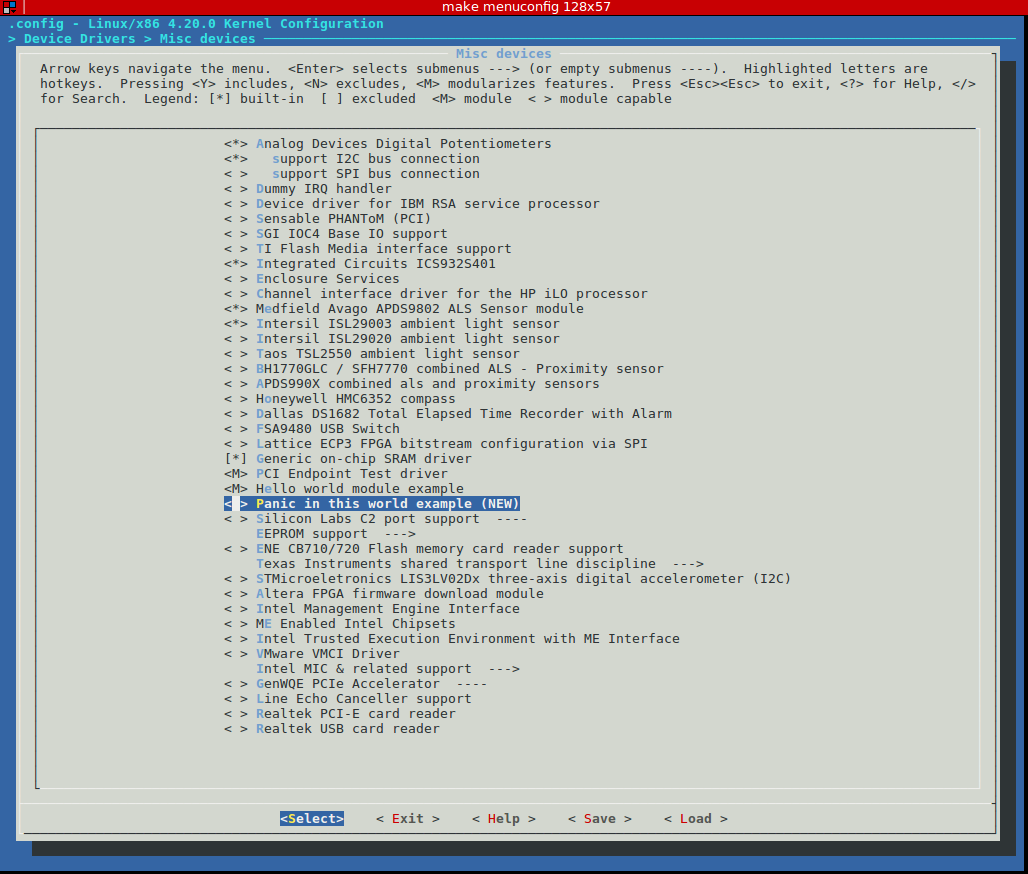
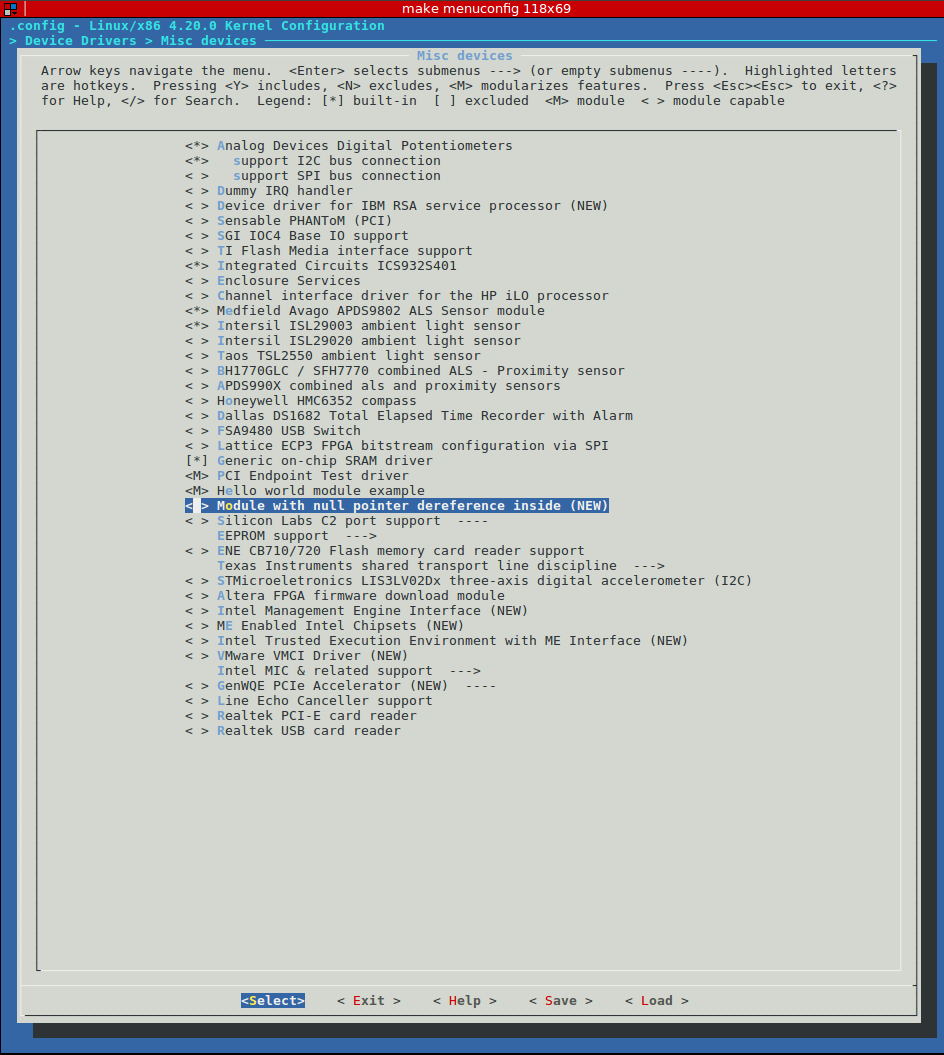
changes in README and in hello_undefined_world module

Changed region(s): [[0.0, 0.0, 1.0, 1.0], [0.768, 0.5252, 0.7987, 0.5561], [0.6144, 0.1854, 0.6451, 0.2162]]

diff --git a/hello_undefined_world.c b/hello_undefined_world.c
@@ -1,10 +1,9 @@
-/* hello_panic_world.c */
 #include <linux/init.h>
 #include <linux/module.h>
 #include <linux/kernel.h>
 
 MODULE_LICENSE("GPL");
-MODULE_DESCRIPTION("Module to cause panic.");
+MODULE_DESCRIPTION("Module with null pointer dereference inside.");
 MODULE_AUTHOR("Kseniia Prytkova");
 
 static int __init hello_init(void)

diff --git a/README.md b/README.md
@@ -94,7 +94,7 @@ now run `$ make menuconfig` and you will see your new module:
 
 press `<M>` and modularize your driver.
 
-Next step is to compile our driver. We have 2 options: `1)` select the letter `<M>` after executing the command `$ make menuconfig` - **modularizing our feature** - this means that we will add our driver to the file system and then connect it with Linux Kernel (`$ make -j4 modules`). `2)` Choosing the letter `<Y>` - **includes our feature** - means we are adding our driver directly to the appropriate folder in `linux/drivers`, we are changing Linux Kernel physically, so we need to rebuild the entire Linux Kernel and get a new `zImage` (`$ make zImage`).
+Next step is to compile our driver. We have 2 options: `1)` select the letter `<M>` after executing the command `$ make menuconfig` - **modularizing our feature** - this means that we will add our driver to the file system and then connect it with Linux Kernel (`$ make modules`). `2)` Choosing the letter `<Y>` - **includes our feature** - means we are adding our driver directly to the appropriate folder in `linux/drivers`, we are changing Linux Kernel physically, so we need to rebuild the entire Linux Kernel and get a new `zImage` (`$ make zImage`).
 
 We are using 'module approach'. In practice, we must modularize our driver directly in the code (not in the graphical interface). And never forget about target architecture. So:
 ```
@@ -116,7 +116,7 @@ in `linux/drivers/misc` will appear: `hello_world.ko`, `hello_world.mod.c`, `hel
 The last step is to connect rootfs.cpio archive with Linux Kernel. Download rootfs.cpio, in my case:
 ![where_is_cpio](imgs/where_is_cpio.png)
 
-**IMPORTANT!** All manipulations with rootfs.cpio we should do **under root user**:
+**IMPORTANT!** All manipulations with rootfs.cpio must be done **under root user**: 
 ```
 $ sudo su
 $ export ROOTFS_ARCHIVE=/path/to/rootfs.cpio
@@ -131,11 +131,12 @@ add here your modules or do all needed changes to the rootfs filesystem (now i'm
 $ cp ../../linux/drivers/misc/hello_world.ko .
 $ chmod +xw hello_world.ko 
 ```
-create rootfs archive again (attention: rewrites original file; create archive inside root directory in rootfs/ folder!):
+create rootfs archive again (**attention**: rewrites original file; create archive inside root directory in rootfs/ folder):
 ```
 $ find . | cpio -o -H newc > $ROOTFS_ARCHIVE
 ```
 **IMPORTANT!** Check (and change if needed) access rights for your rootfs.cpio (`$ chmod 777 rootfs.cpio`). Insufficient access rights can cause Kernel panic, while Linux Kernel will try to make friends with filesystem, for instance:
+
 ![panic_1](imgs/panic_1.png)
 
 finish root mode (`$ exit`).
@@ -145,6 +146,7 @@ $ cd linux
 $ qemu-system-arm -machine virt -kernel ./arch/arm/boot/zImage -initrd ../rootfs.cpio -nographic -m 512 --append "root=/dev/ram0 rw console=ttyAMA0,38400 console=ttyS0 mem=512M loglevel=9"
 ```
 ![qemu_inside](imgs/qemu_inside.png)
+
 now we are inside QEMU; go inside the corresponding directory into rootfs filesystem, where you left your driver.ko; try `insmod` and `rmmod`: 
 ```
 # cd /bin
